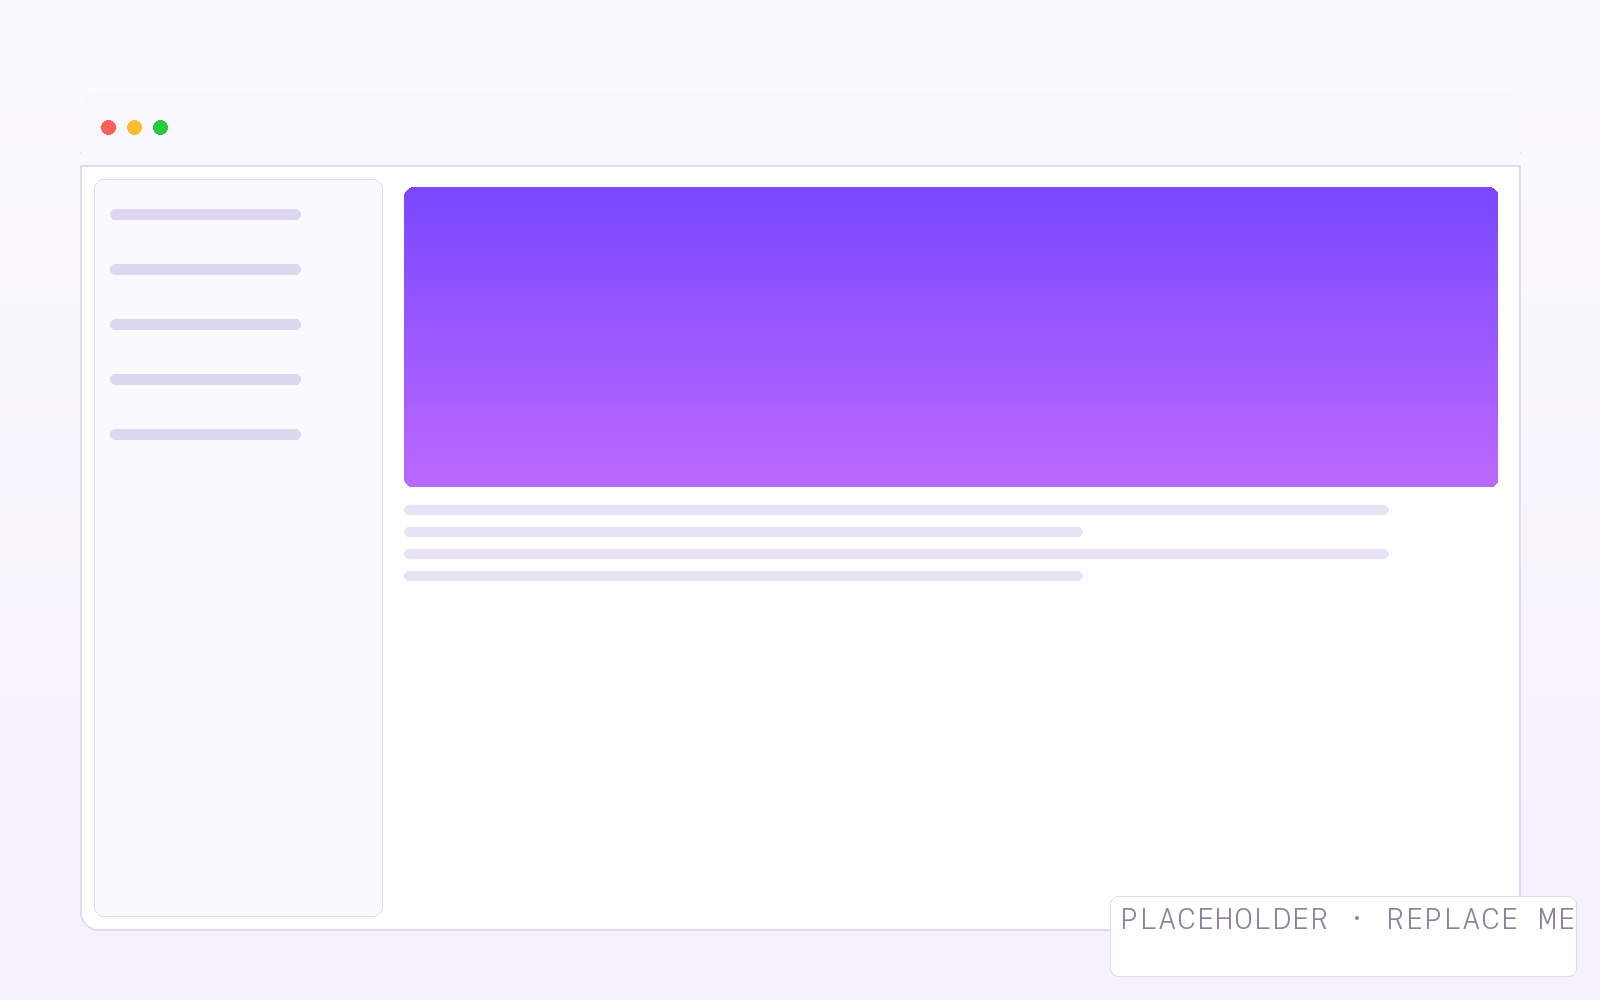
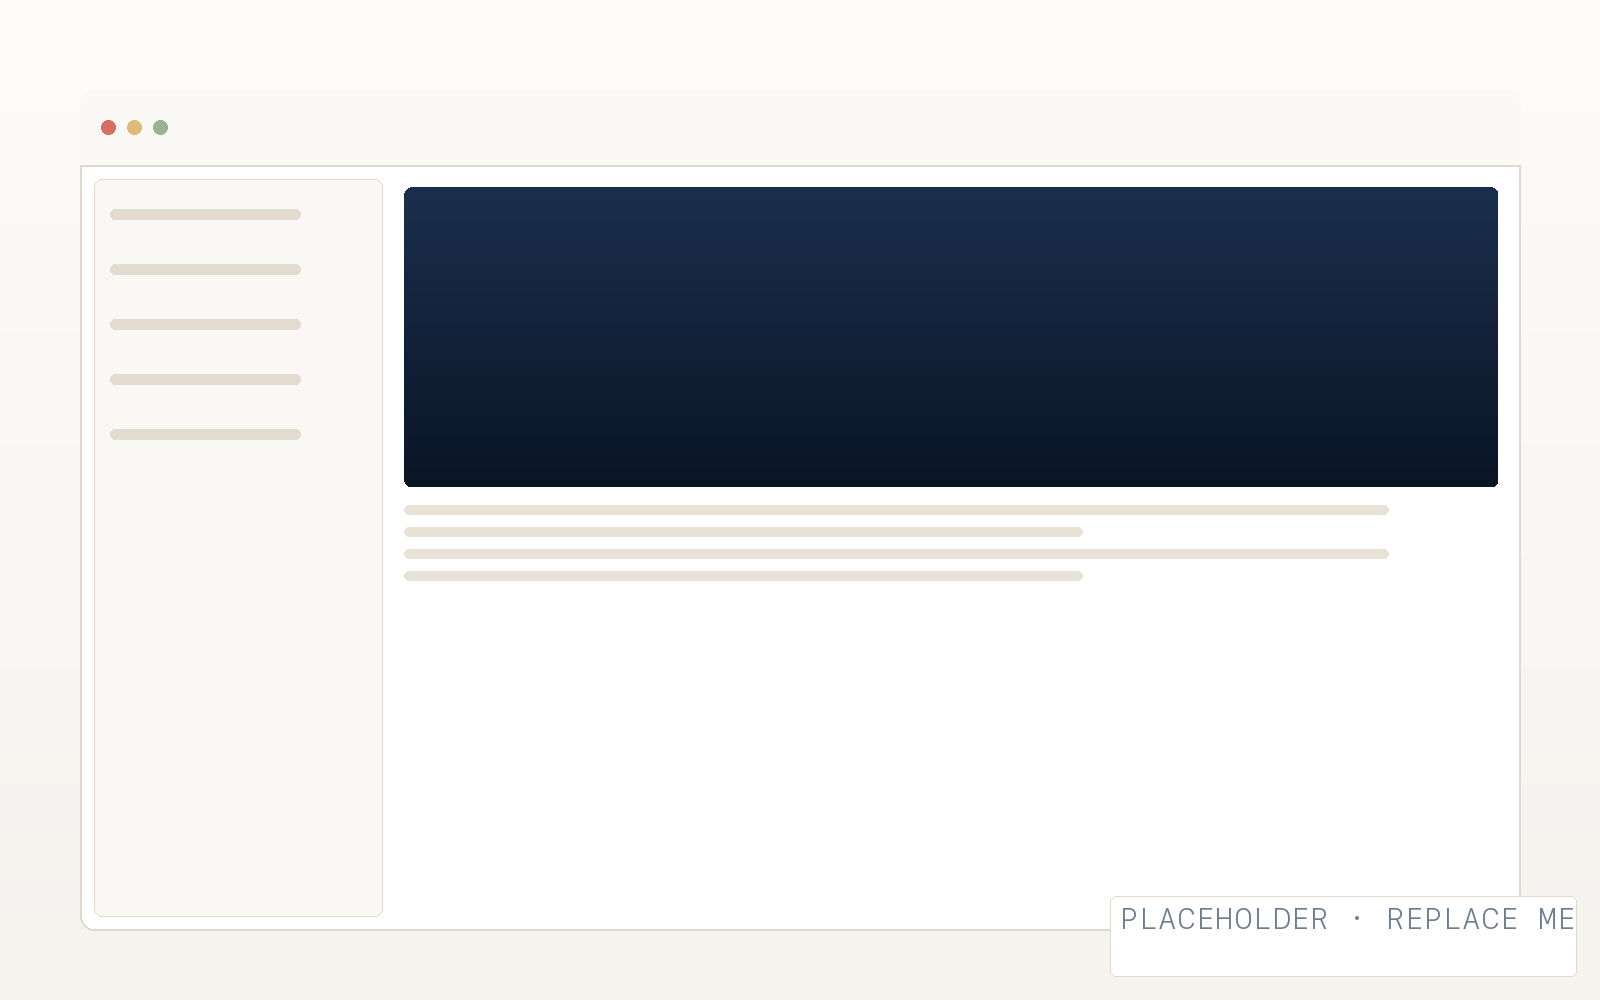
style: 配色改为墨蓝 + 纸白 + 鎏金（书籍感），衬线标题与金色强调

diff --git a/shared/brand.css b/shared/brand.css
@@ -1,22 +1,22 @@
 /* Shared by the product homepage and VitePress documentation. */
 :root {
   color-scheme: light;
-  --mh-ink: #16102b;
-  --mh-ink-deep: #0d091c;
-  --mh-ink-soft: #453a63;
-  --mh-ink-mute: #6f6489;
-  --mh-accent: #7948ff;
-  --mh-accent-light: #bd69ff;
-  --mh-paper: #fcfbff;
-  --mh-paper-2: #f5f1fd;
-  --mh-paper-3: #ebe3fa;
-  --mh-rule: rgba(22, 16, 43, .12);
-  --mh-rule-soft: rgba(22, 16, 43, .07);
+  --mh-ink: #101f38;
+  --mh-ink-deep: #0a1526;
+  --mh-ink-soft: #40536f;
+  --mh-ink-mute: #6d7d94;
+  --mh-accent: #b8863b;
+  --mh-accent-light: #d9a94f;
+  --mh-paper: #fdfcfa;
+  --mh-paper-2: #f5f3ee;
+  --mh-paper-3: #edeae2;
+  --mh-rule: rgba(16, 31, 56, .12);
+  --mh-rule-soft: rgba(16, 31, 56, .07);
   --mh-surface: #fff;
-  --mh-header: rgba(252, 251, 255, .96);
-  --mh-button-hover: #3f24a8;
-  --mh-accent-text: #5b2ecc;
-  --mh-accent-border: #d8caf7;
+  --mh-header: rgba(253, 252, 250, .96);
+  --mh-button-hover: #24395a;
+  --mh-accent-text: #886025;
+  --mh-accent-border: #dfd1b9;
   --mh-logo-ground: #fff;
   --mh-font-sans: "Inter", -apple-system, BlinkMacSystemFont, "Segoe UI", "PingFang SC", "HarmonyOS Sans SC", "Source Han Sans SC", "Noto Sans CJK SC", "Hiragino Sans GB", "Microsoft YaHei", sans-serif;
   --mh-font-serif: "Iowan Old Style", "Palatino Linotype", Palatino, "Book Antiqua", Georgia, "Songti SC", "Source Han Serif SC", "Noto Serif CJK SC", "STSong", serif;
@@ -24,28 +24,28 @@
 }
 html.dark {
   color-scheme: dark;
-  --mh-ink: #ece7f7;
-  --mh-ink-soft: #b6accd;
-  --mh-ink-mute: #a79dbf;
-  --mh-accent: #bd69ff;
-  --mh-accent-light: #d3a1ff;
-  --mh-paper: #0e0a19;
-  --mh-paper-2: #150f24;
-  --mh-paper-3: #1e1633;
-  --mh-rule: rgba(200, 185, 235, .14);
-  --mh-rule-soft: rgba(200, 185, 235, .08);
-  --mh-surface: #150f24;
-  --mh-header: rgba(14, 10, 25, .96);
-  --mh-button-hover: #d9c8ff;
-  --mh-accent-text: #d3a1ff;
-  --mh-accent-border: #6b5398;
+  --mh-ink: #e6ecf5;
+  --mh-ink-soft: #a9b6c9;
+  --mh-ink-mute: #9aaac0;
+  --mh-accent: #d9a94f;
+  --mh-accent-light: #e8c176;
+  --mh-paper: #0b1220;
+  --mh-paper-2: #101a2b;
+  --mh-paper-3: #16233a;
+  --mh-rule: rgba(190, 208, 232, .14);
+  --mh-rule-soft: rgba(190, 208, 232, .08);
+  --mh-surface: #101a2b;
+  --mh-header: rgba(11, 18, 32, .96);
+  --mh-button-hover: #c3d0e2;
+  --mh-accent-text: #e8c176;
+  --mh-accent-border: #685638;
 }
 
-/* 顶栏品牌区：紫色花瓣标志 + 字标，深浅色通用 */
+/* 顶栏品牌区：墨蓝字标 + 标志，深浅色通用 */
 .mh-brand { color: var(--mh-ink); }
 .mh-brand img { display: block; width: auto; height: 30px; }
-.mh-brand .mh-brand-name { font-size: 19px; font-weight: 700; letter-spacing: -.02em; line-height: 1; }
+.mh-brand .mh-brand-name { font-family: var(--mh-font-serif); font-size: 20px; font-weight: 600; letter-spacing: -.01em; line-height: 1; }
 @media (max-width: 480px) {
   .mh-brand img { height: 26px; }
-  .mh-brand .mh-brand-name { font-size: 17px; }
+  .mh-brand .mh-brand-name { font-size: 18px; }
 }

diff --git a/.vitepress/theme/style.css b/.vitepress/theme/style.css
@@ -3,7 +3,7 @@
 
 /* ==========================================================================
    文档站主题
-   紫罗兰（logo 主色）· 纸白 · 浅紫（强调）
+   墨蓝（字标主色）· 纸白 · 鎏金（强调）
    ========================================================================== */
 
 :root {
@@ -14,9 +14,9 @@
   --vp-font-family-mono: var(--mh-font-mono);
 
   --vp-c-brand-1: var(--mh-ink);
-  --vp-c-brand-2: #4b2bb0;
+  --vp-c-brand-2: #24395a;
   --vp-c-brand-3: var(--mh-accent);
-  --vp-c-brand-soft: rgba(121, 72, 255, 0.14);
+  --vp-c-brand-soft: rgba(184, 134, 59, 0.14);
 
   --vp-c-bg: var(--mh-paper);
   --vp-c-bg-alt: var(--mh-paper-2);
@@ -38,7 +38,7 @@
   --vp-layout-max-width: 100vw;
   --vp-nav-height: 64px;
   --vp-sidebar-width: 288px;
-  --vp-code-block-bg: #f8f5ff;
+  --vp-code-block-bg: #fbf9f5;
 
   --vp-home-hero-name-color: var(--mh-ink);
   --vp-code-copy-copied-text-content: "已复制";
@@ -47,10 +47,10 @@
 .dark {
 
   --vp-c-brand-1: #e6ecf5;
-  --vp-c-brand-2: #cbb8ff;
+  --vp-c-brand-2: #c3d0e2;
   --vp-c-brand-3: var(--mh-accent);
   --vp-c-bg-elv: #101a2b;
-  --vp-code-block-bg: #120c22;
+  --vp-code-block-bg: #0d1626;
 }
 
 body {
@@ -60,7 +60,7 @@ body {
 }
 
 ::selection {
-  background: rgba(121, 72, 255, 0.22);
+  background: rgba(184, 134, 59, 0.22);
 }
 
 /* --------------------------------------------------------------------------

diff --git a/homepage/app/home.module.css b/homepage/app/home.module.css
@@ -236,7 +236,7 @@
   overflow: hidden;
   border: 1px solid rgba(200, 185, 235, .16);
   border-radius: 12px;
-  background: #0d0a17;
+  background: #0a1526;
   box-shadow: 0 40px 110px -65px rgba(84, 40, 190, .6);
 }
 
@@ -566,7 +566,7 @@
   position: relative;
   display: grid;
   aspect-ratio: 2780 / 1836;
-  background: #0d0a17;
+  background: #0a1526;
 }
 
 .galleryLayer {
@@ -824,7 +824,7 @@
   border: 1px solid rgba(200, 185, 235, .18);
   border-radius: 12px;
   background: var(--mh-ink-deep);
-  color: #ece7f7;
+  color: #e6ecf5;
 }
 
 .installBar {
@@ -847,13 +847,13 @@
   border: 1px solid rgba(189, 105, 255, .4);
   border-radius: 5px;
   background: rgba(189, 105, 255, .08);
-  color: #d3a1ff;
+  color: #e8c176;
   font-size: 12px;
   transition: background .2s, border-color .2s;
 }
 
 .copyButton:hover {
-  border-color: #bd69ff;
+  border-color: #d9a94f;
   background: rgba(189, 105, 255, .16);
 }
 
@@ -861,7 +861,7 @@
   margin: 0;
   padding: 22px 18px;
   overflow-x: auto;
-  color: #ece7f7;
+  color: #e6ecf5;
   font-family: var(--mono);
   font-size: clamp(12.5px, 1.6vw, 14.5px);
   line-height: 1.6;

diff --git a/homepage/app/layout.tsx b/homepage/app/layout.tsx
@@ -24,7 +24,7 @@ export const metadata: Metadata = {
 };
 
 export const viewport: Viewport = {
-  themeColor: "#7948ff",
+  themeColor: "#101f38",
   colorScheme: "light dark",
 };
 

diff --git a/README.md b/README.md
@@ -8,7 +8,7 @@
 
 1. 在 GitHub 上点 **Use this template** 创建自己的仓库（或复制目录）。
 2. 改 `site.config.json`：站点名称、描述、仓库地址、分类与每类入口页。
-3. 改 `shared/brand.css` 的主色（`--mh-accent` 等变量），替换 `public/logo.svg`、`public/favicon.ico`。
+3. 改 `shared/brand.css` 的主色（默认是墨蓝 + 纸白 + 鎏金的书籍感配色，字体与强调色都在这里的 `--mh-*` 变量），替换 `public/logo.svg`、`public/favicon.ico`。
 4. 改 `homepage/app/content.ts` 的首页文案（这是首页唯一需要改的文件）。
 5. 删掉 `01-getting-started` 到 `07-releases` 里的示例页，换成自己的文档。
 6. 把 `public/screenshots/`、`homepage/public/docs/_home/product/` 里的占位图换成真实截图。
